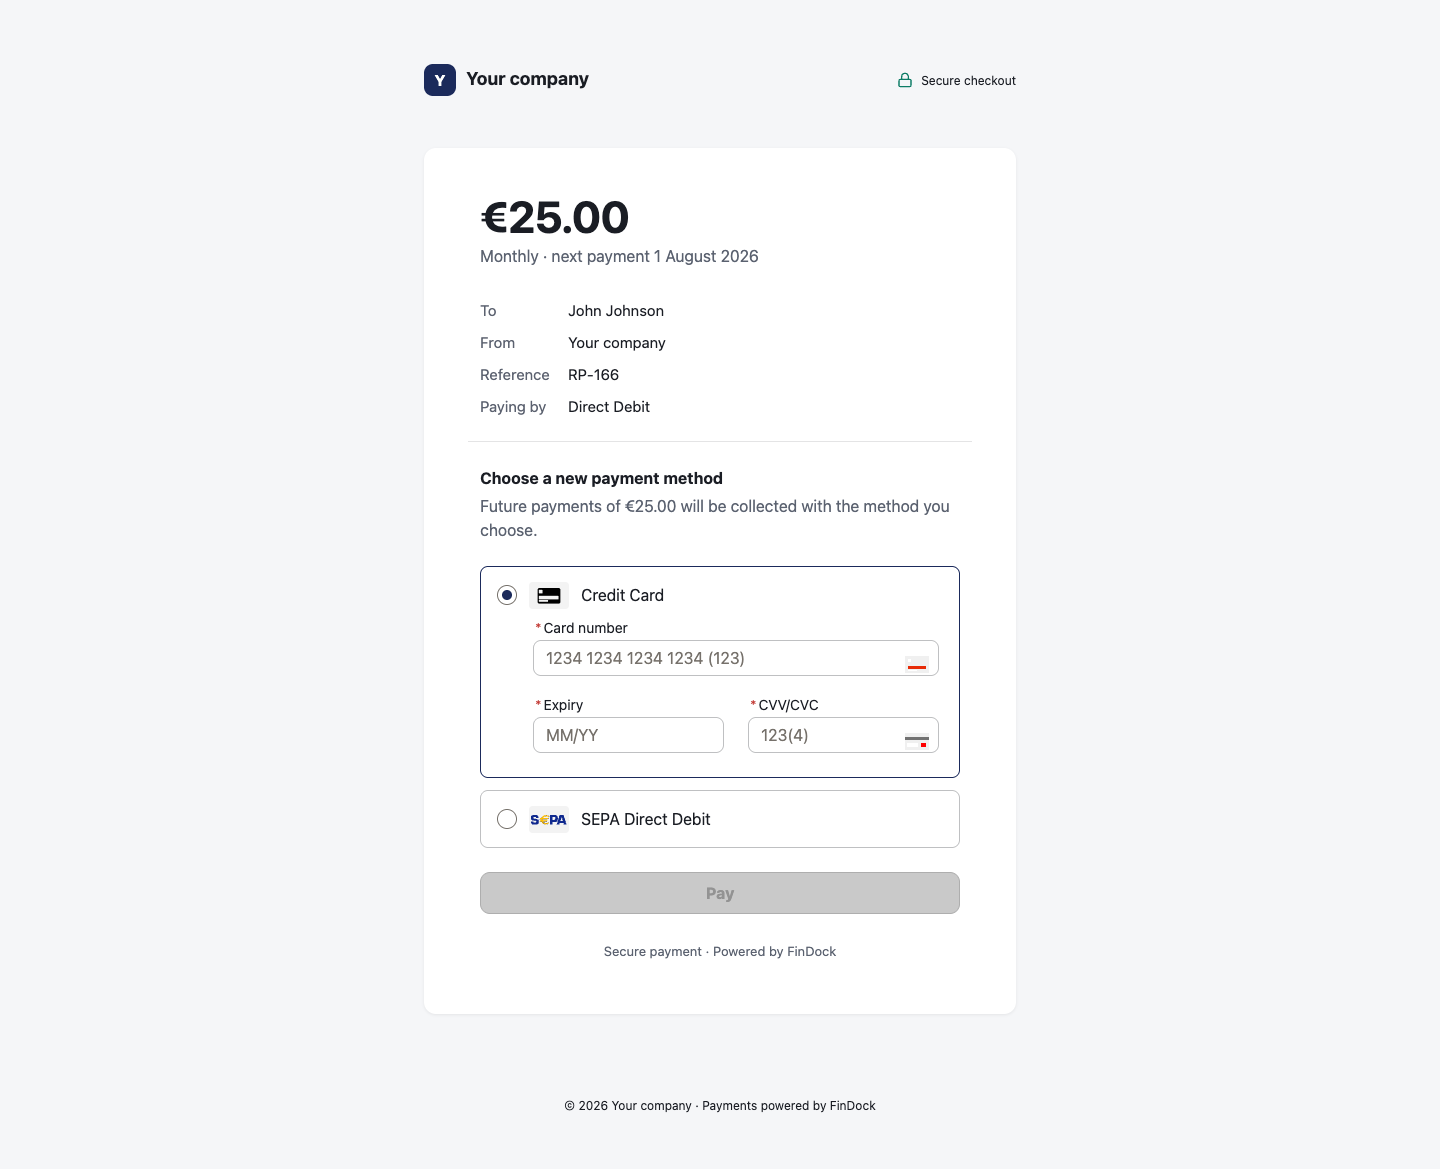
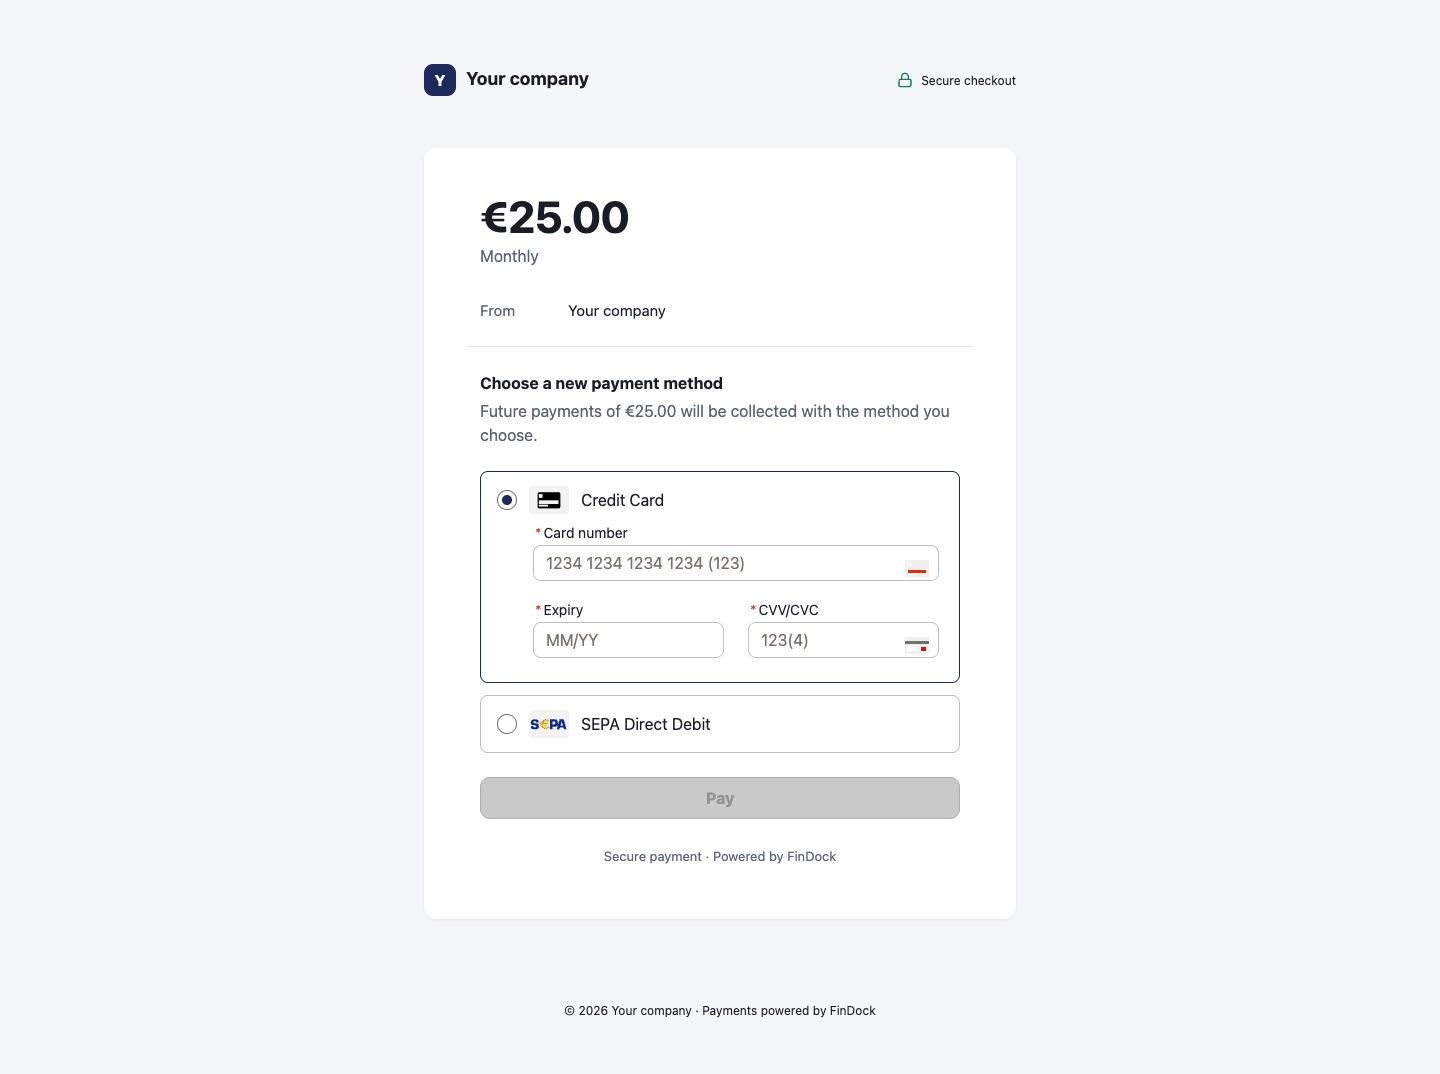
Payment Link Flow: map the recurring record in one placeholder step
- New Placeholder: map recurring fields step after the recurring lookup;
  screens, formulas and the Pay Button read only the recurring* variables
  (id, amount, currency, frequency, reference)
- Recurring card shows amount, frequency, From and the payment reference;
  no payer, payment method or next date, and the Reference row is hidden
  when there is no reference
- README: one table of the fields to map for Recurring Payment, NPSP and
  Nonprofit Cloud; updated Flow Build

diff --git a/sfdx-source/packages/pay-link/README.md b/sfdx-source/packages/pay-link/README.md
@@ -8,7 +8,7 @@ A screen flow for links to an existing FinDock record: pay an invoice or a payme
 - Payment link mode: From and For
 - Overdue badge when the due date has passed
 - Collected installments show a paid confirmation instead of the payment methods, so an old link stays safe to open
-- Recurring mode: when the id belongs to a recurring payment, the payer picks a new payment method for future payments (like FinDock PayLinks)
+- Recurring mode: when the id belongs to a recurring payment, the card shows its amount, frequency, From and its payment reference (if any), and the payer picks a new payment method for future payments (like FinDock PayLinks)
 - An unknown or missing id shows a "not valid" message
 
 The flow looks the id up as an installment and as a recurring payment, then shows one of three screens: pay, paid or not valid. The pay screen covers invoices, payment links and recurring payments with formulas instead of extra branches.
@@ -28,9 +28,9 @@ Recurring mode: the payer picks a new payment method for future payments.
 
 The same flow on the [donation site](../donation-site/), in its brand.
 
-![The flow in Flow Builder: find the installment or the recurring record by its GUID, then show the pay, paid or not-found screen.](../../../docs/images/builder-payment-link-flow.png)
+![The flow in Flow Builder: find the installment or the recurring record by its GUID, copy the recurring record's fields into neutral variables, then show the pay, paid or not-found screen.](../../../docs/images/builder-payment-link-flow.png)
 
-The flow in Flow Builder: find the installment or the recurring record by its GUID, then show the pay, paid or not-found screen.
+The flow in Flow Builder: find the installment or the recurring record by its GUID, copy the recurring record's fields into neutral variables, then show the pay, paid or not-found screen.
 
 ## Prerequisites
 - FinDock is installed and configured, with at least one payment extension.
@@ -47,26 +47,30 @@ The flow in Flow Builder: find the installment or the recurring record by its GU
 | `merchantName` | Name shown as From. Defaults to the org name. |
 | `successUrl`, `failureUrl` | Optional full URLs where the payer goes after a successful or a failed payment. Embeds such as Lightning Out pass their own; without them the flow uses the example URLs below. |
 
-For an installment, the amount is its open amount, the memo its bank statement description, and the payer its contact (and account, if set). For a recurring payment, the page shows its amount, frequency, next collection date and current payment method.
+For an installment, the amount is its open amount, the memo its bank statement description, and the payer its contact (and account, if set). For a recurring payment, the page shows its amount and frequency, From, and Reference when the record has a payment reference.
 
 The pay button reads "Pay" in every mode.
 
 
 ## Recurring object
 
-The flow finds the recurring record in the element **Placeholder: get recurring record**. It reads a FinDock Recurring Payment, which every FinDock org has, so the template always deploys. If your recurring gifts are on another object, change it to match your data model:
+Two neighbouring elements are the only parts of the flow that know which object holds recurring payments:
 
-| Data model | Object | GUID field | Amount, frequency and payment method |
+- **Placeholder: get recurring record** finds the record by its GUID. It reads a FinDock Recurring Payment, which every FinDock org has, so the template always deploys.
+- **Placeholder: map recurring fields** copies that record's fields into the `recurring*` variables. Every screen, formula and the Pay Button read those variables, never the record.
+
+If your recurring gifts are on another object, change those two elements to match your data model:
+
+| Variable | FinDock (default): Recurring Payment | NPSP: Recurring Donation | Nonprofit Cloud: Gift Commitment |
 |---|---|---|---|
-| FinDock (default) | Recurring Payment (`cpm__Recurring_Payment__c`) | `cpm__GUID__c` | On the record (`cpm__Amount__c`, `cpm__Frequency__c`, `cpm__Payment_Method__c`) |
-| NPSP | Recurring Donation (`npe03__Recurring_Donation__c`) | `npsp4hub__GUID__c` | On the record (`npe03__Amount__c`, `npsp4hub__Payment_Method__c`) |
-| Nonprofit Cloud | Gift Commitment (`GiftCommitment`) | `fdff__GUID__c` | On its current schedule (`CurrentGiftCmtScheduleId`): add a second Get Records for the Gift Commitment Schedule |
+| Lookup object · GUID field | `cpm__Recurring_Payment__c` · `cpm__GUID__c` | `npe03__Recurring_Donation__c` · `npsp4hub__GUID__c` | `GiftCommitment` · `fdff__GUID__c`, then a second Get Records for its current schedule (`CurrentGiftCmtScheduleId`), which holds the amount, frequency and reference |
+| `recurringId` | `Id` | `Id` | `Id` (of the Gift Commitment) |
+| `recurringAmount` | `cpm__Amount__c` | `npe03__Amount__c` | schedule `TransactionAmount` |
+| `recurringCurrency` | `CurrencyIsoCode` | `CurrencyIsoCode` | `CurrencyIsoCode` |
+| `recurringFrequency` | `cpm__Frequency__c` | `npe03__Installment_Period__c` | schedule `TransactionPeriod` |
+| `recurringReference` (the Reference row is hidden when empty) | `cpm__Final_Payment_Reference__c` | `npsp4hub__Final_Payment_Reference__c` | schedule `fdff__Final_Payment_Reference__c` |
 
-In Flow Builder:
-1. In **Placeholder: get recurring record**, change the object and the GUID filter.
-2. Update the formulas and screen texts that use its fields (amount, currency, frequency, next payment date, current payment method, payer, reference).
-3. Select the **Pay Button** on the Pay screen and set its recurring object type to the same object.
-4. Create the guest user sharing rule (installation step 4) on that object.
+Then select the **Pay Button** on the Pay screen and set its recurring object type to the same object, and create the guest user sharing rule (installation step 4) on that object.
 
 ## Installation
 1. Deploy this package.
